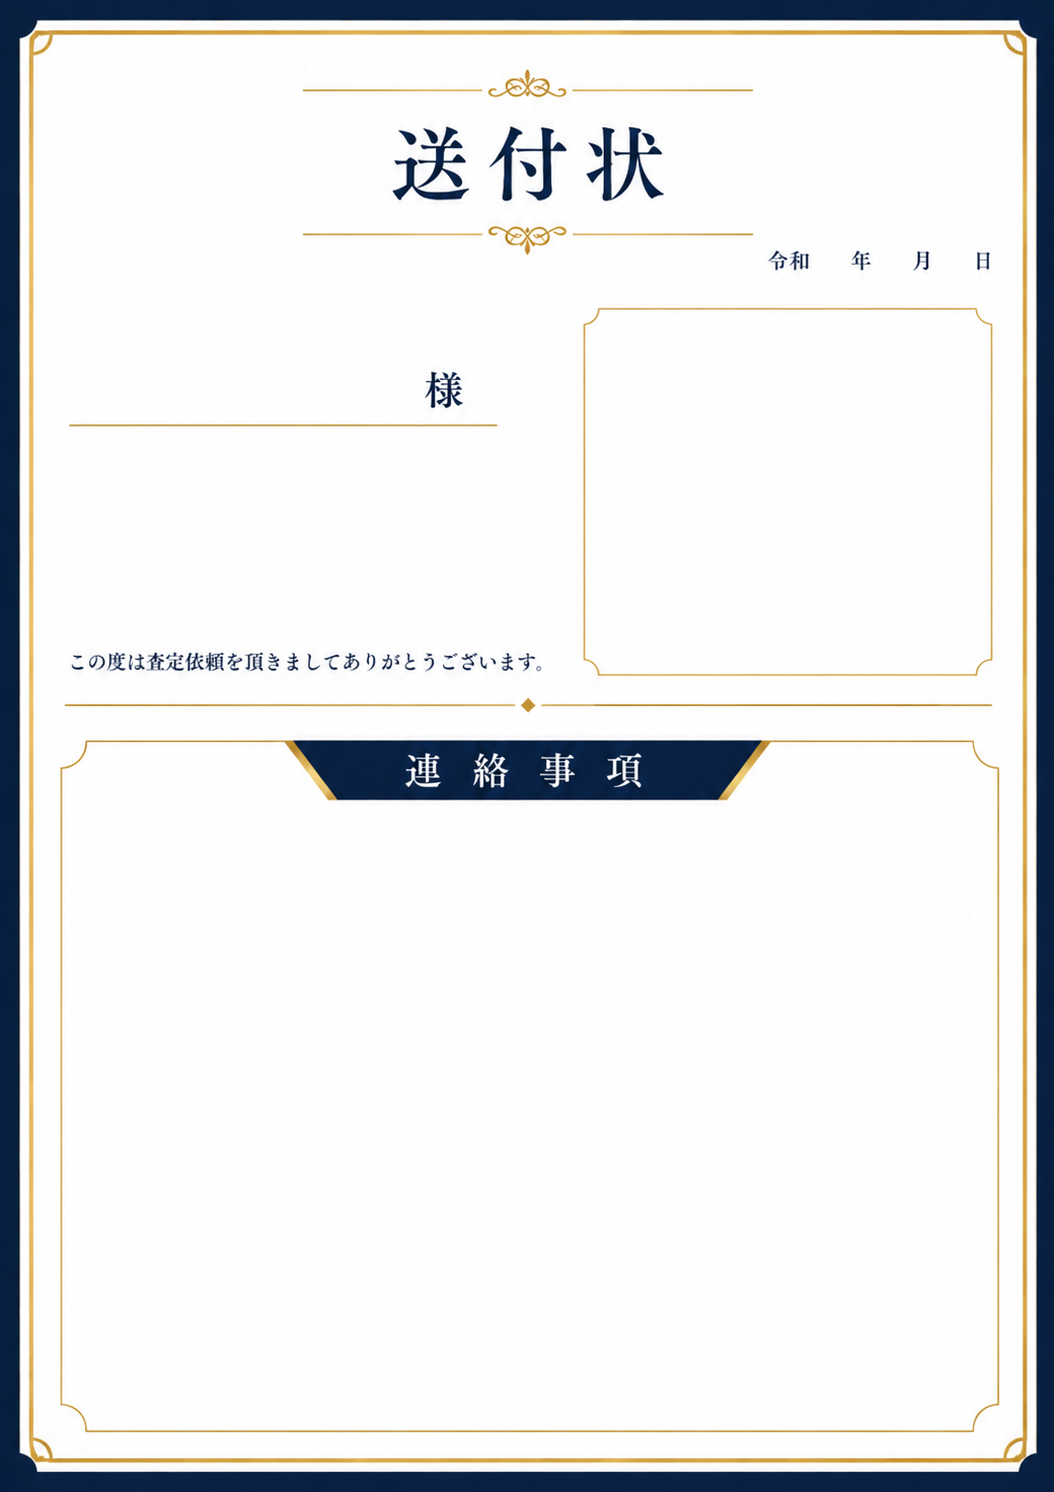
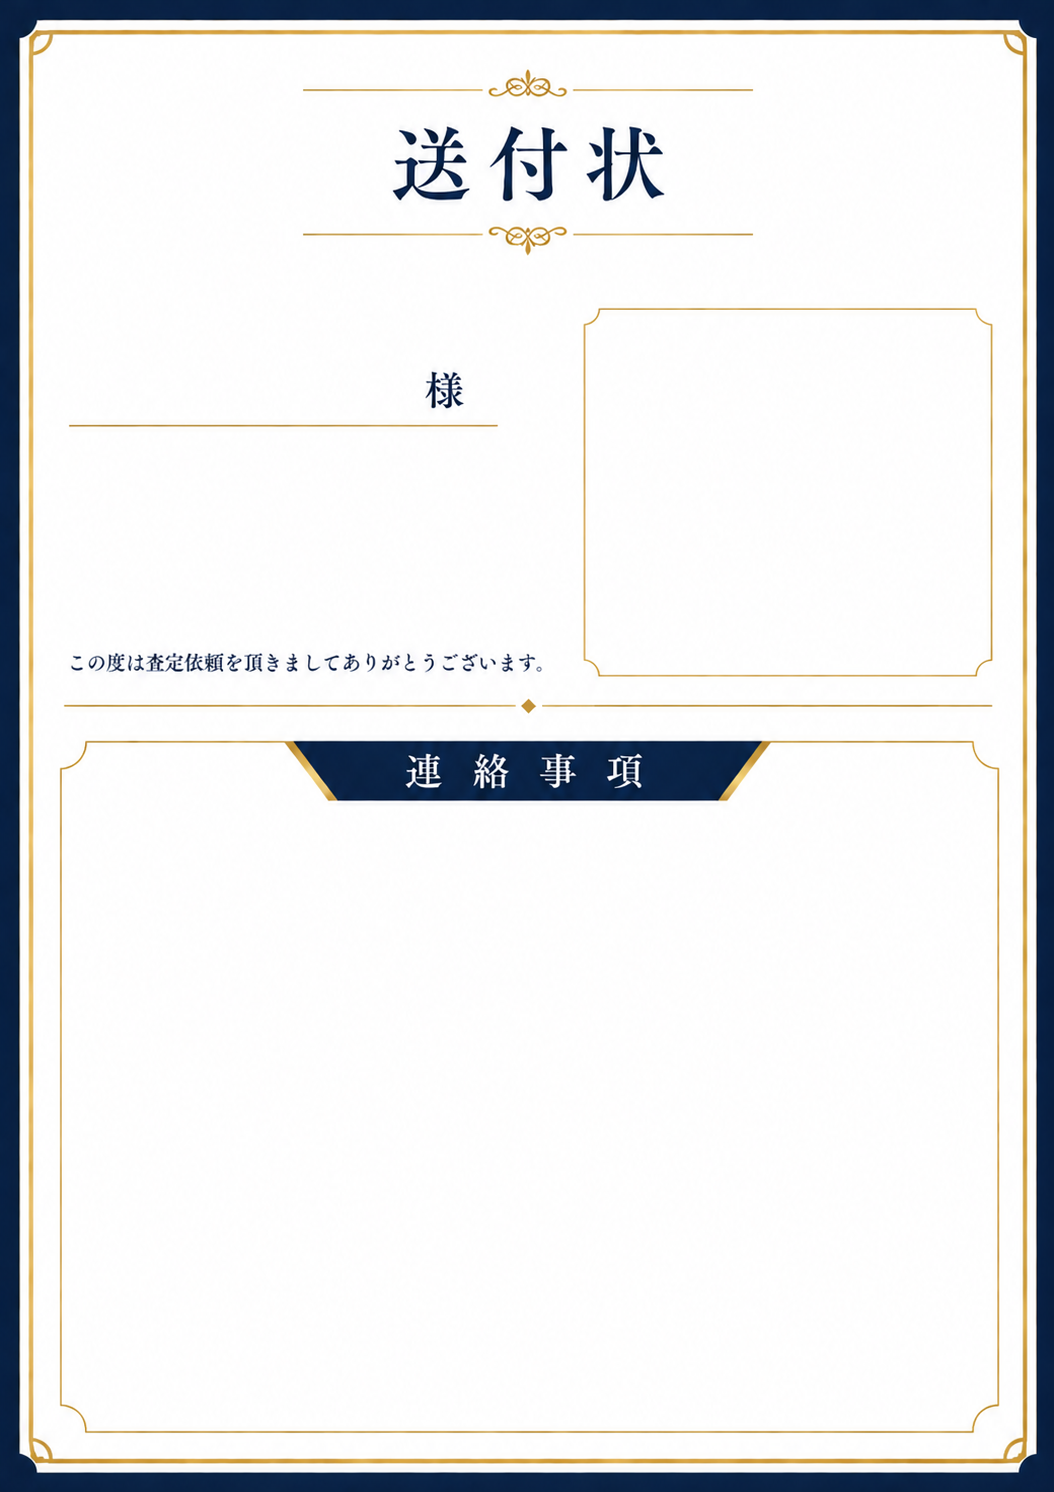
fix(souhu): signature top 65mm, left 120mm, font +1pt, add date 5mm above, update souhu.png

diff --git a/frontend/frontend/src/components/SouhuModal.tsx b/frontend/frontend/src/components/SouhuModal.tsx
@@ -120,9 +120,14 @@ export const SouhuModal: React.FC<Props> = ({
   <img class="bg" src="${imgSrc}" alt="" />
   <div class="layer">
 
-    <!-- 署名エリア：上60mm・左115mm -->
-    <div style="position:absolute;left:115mm;top:60mm;width:90mm;font-size:11pt;line-height:1.8;">
-      <div style="font-weight:700;font-size:12pt;margin-bottom:1mm;">${company.name}</div>
+    <!-- 日付：署名の5mm上 -->
+    <div style="position:absolute;left:120mm;top:60mm;width:90mm;font-size:12pt;">
+      ${new Date().toLocaleDateString('ja-JP', { year: 'numeric', month: 'long', day: 'numeric' })}
+    </div>
+
+    <!-- 署名エリア：上65mm・左120mm -->
+    <div style="position:absolute;left:120mm;top:65mm;width:90mm;font-size:12pt;line-height:1.8;">
+      <div style="font-weight:700;font-size:13pt;margin-bottom:1mm;">${company.name}</div>
       <div>${company.zip}</div>
       <div>${company.address}</div>
       <div>${company.building}</div>
